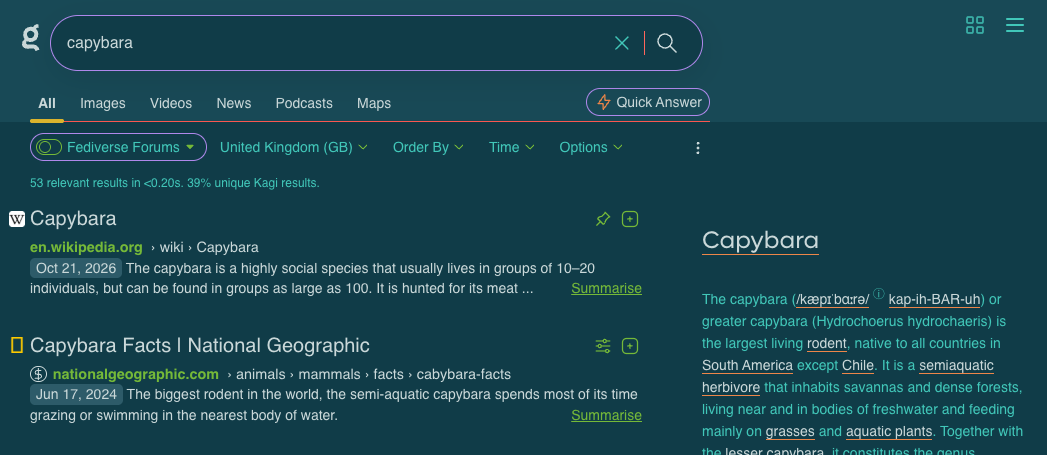
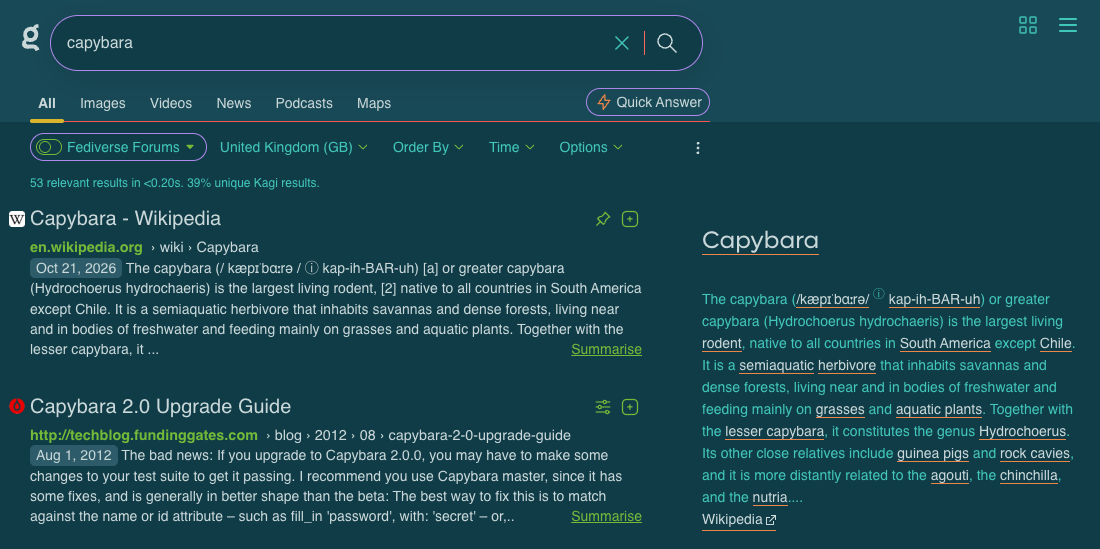
Retake screenshots and add a combined light/dark image

diff --git a/README.md b/README.md
@@ -8,6 +8,12 @@ This is an unofficial theme and is not affiliated with Kagi.
 
 ## Screenshots
 
+The same page in both modes, light above the line and dark below it:
+
+![Selenized Light above, Dark below](docs/screenshots/capybara-light-dark.png)
+
+The video and image thumbnails belong to their respective owners.
+
 Selenized Light:
 
 ![Capybara search, Selenized Light](docs/screenshots/capybara-light.png)
